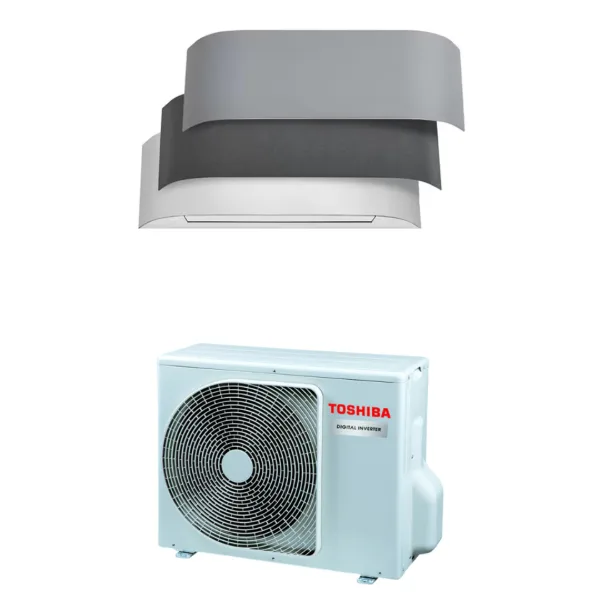
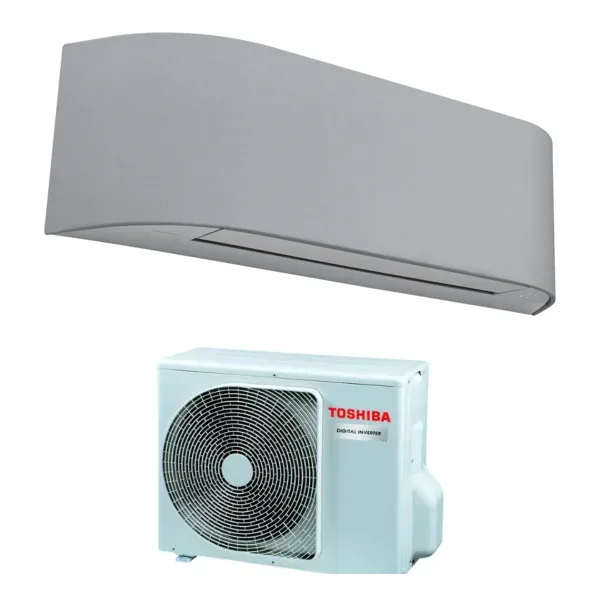
Toshiba Haori: nieuwe kaartfoto, één toestel met buitenunit (Rims keuze)
- assets/img/toshiba-haori.webp: lichtgrijze binnenunit met buitenunit (Nova Air),
  600 x 600, witte achtergrond, webp 0,82; alt-tekst aangepast.
- De extra foto "Lichtgrijs" was dezelfde binnenunit als op de nieuwe kaartfoto:
  weggehaald uit toestel-media.js (en uit de bron in voorbeeld/media/).

diff --git a/index.html b/index.html
@@ -1838,7 +1838,7 @@
       <a class="device-cta" href="#calculator" data-start-dienst="nieuw" data-model="Toshiba Yukai">Offerte voor dit model <span class="ar">&rarr;</span></a>
     </div>
     <div class="device-card" data-brand="toshiba" data-category="single multi" data-type="wand" data-kw="2,5 3,5 4,6">
-          <div class="device-photo"><img src="assets/img/toshiba-haori.webp" alt="Toshiba Haori binnen- en buitenunit" loading="lazy"></div>
+          <div class="device-photo"><img src="assets/img/toshiba-haori.webp" alt="Toshiba Haori binnenunit met lichtgrijze stoffen hoes en buitenunit" loading="lazy"></div>
       <div class="device-brand">Airco · wandmodel</div>
       <h3>Haori</h3>
       <p class="device-desc">Designmodel met een frontpaneel in textiel, dat zacht en warm oogt in uw interieur. Ook erg stil.</p>

diff --git a/js/toestel-media.js b/js/toestel-media.js
@@ -345,11 +345,6 @@ var RT_MEDIA ={
   "Toshiba Haori": {
     "fotos": [
       {
-        "src": "assets/img/t-toshiba-haori-2.webp",
-        "label": "Lichtgrijs",
-        "alt": "Toshiba Haori binnenunit met lichtgrijze stoffen hoes"
-      },
-      {
         "src": "assets/img/t-toshiba-haori-3.webp",
         "label": "Donkergrijs",
         "alt": "Toshiba Haori binnenunit met donkergrijze stoffen hoes"
